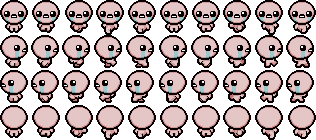
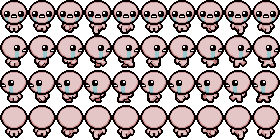
starting on player

Changed region(s): [[0.0, 0.0, 1.0, 1.0]]

diff --git a/JeVousSouhaiteUneBonneJournée/IEntity.cpp b/JeVousSouhaiteUneBonneJournée/IEntity.cpp
@@ -20,6 +20,18 @@ sf::Texture*	IEntity::getTexture()
 	return (_texture);
 }
 
+void			IEntity::setSprite(sf::IntRect area)
+{
+	_sprite->setTexture(*getTexture());
+	_sprite->setTextureRect(area);
+}
+
+sf::Sprite*		IEntity::getSprite() const
+{
+
+}
+
+
 void			IEntity::move(enum MOVE)
 {
 

diff --git a/JeVousSouhaiteUneBonneJournée/Player.cpp b/JeVousSouhaiteUneBonneJournée/Player.cpp
@@ -60,7 +60,14 @@ void	Player::setBind()
 		setXY(200, 200);
 		setTexture("src/player/player4.png");
 	}
-	//setSprite();
+}
+
+void	Player::setDir(enum MOVE mv)
+{
+	if (mv == UP)
+	{
+		setSprite(sf::IntRect(0, 0, 28, 35));
+	}
 }
 
 void	Player::setId(int id)

diff --git a/JeVousSouhaiteUneBonneJournée/IEntity.h b/JeVousSouhaiteUneBonneJournée/IEntity.h
@@ -35,6 +35,8 @@ public:
 
 	void			setTexture(std::string);
 	sf::Texture*	getTexture();
+	void			setSprite(sf::IntRect);
+	sf::Sprite*		getSprite() const;
 
 	// Bonus
 

diff --git a/JeVousSouhaiteUneBonneJournée/Player.h b/JeVousSouhaiteUneBonneJournée/Player.h
@@ -15,6 +15,7 @@ public:
 
 	void	setId(int);
 	int		getId() const;
+	void	setDir(enum MOVE);
 
 	// Movements
 
